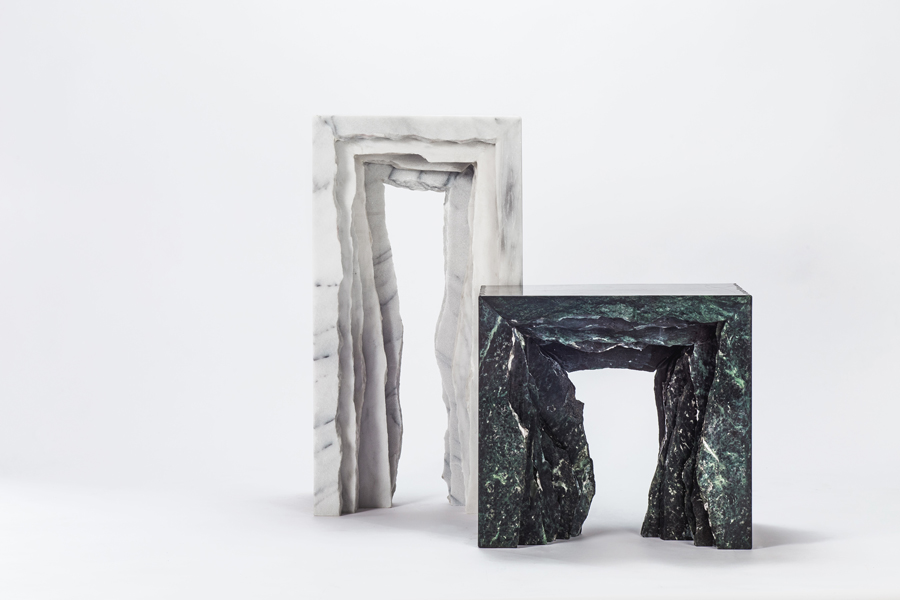
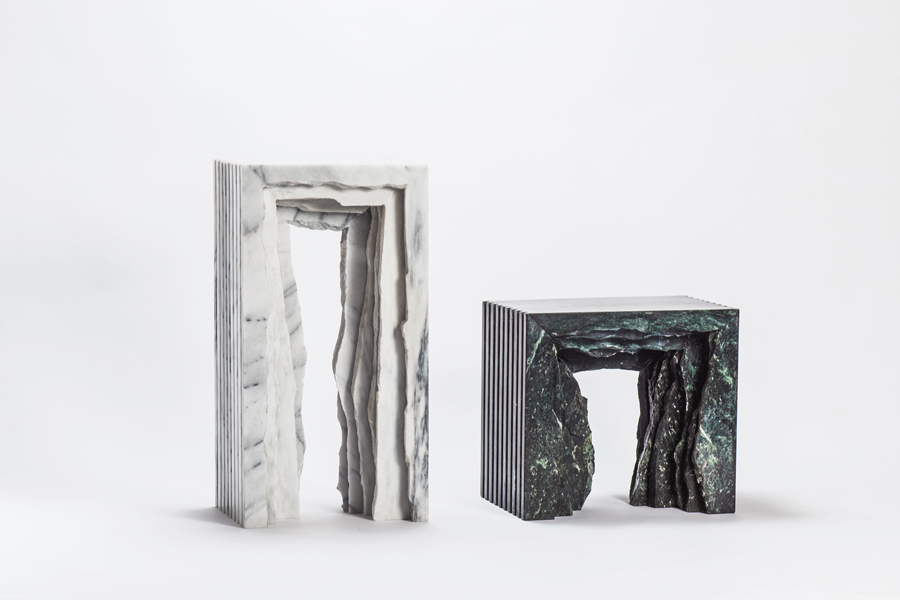
edit
edit

Changed region(s): [[0.1867, 0.18, 0.9022, 0.96]]

diff --git a/Split_Marble_Collection/index.html b/Split_Marble_Collection/index.html
@@ -68,14 +68,17 @@
              
              <div id="project-intro">
                  <h2>Split Marble Collection</h2>
-                 <p><i>Split Marble Collection</i> is inspired by the sawing process of the marble. Being cut artificially, the retaining raw rims of stone pieces greatly contrast with the smooth profile. Through juxtaposing, the common way to place marble slabs, the rough edges create the image of the a layered cavern beneath the table and the stool. The stiff outlines together with the irregular fractures present the aesthetic of dissonance.</p>
+                 <p><i>Split Marble Collection</i> is inspired by the sawing procedure in the marble processing factory. Being incised artificially, the retaining raw rims of stone pieces greatly contrast with the smooth profile. The design regards the roughness as the distinguishing feature and aims to keep it in the furniture design. The even cuts on the marble are used as external appearances while rough sides are placed inward, retaining their original marble surface.</p> 
+
+                 <p>By juxtaposing the marble pieces at gradually varying sizes, the result is a collection of a table and a stool with irregular edges beneath. The layered shape creates an image of a deep cavern. <i>Split Marble Collection</i> presents the aesthetic of dissonance through its stiff outlines together with the presence of fragments.</p>
                  <p>--
                  <br />
                  For <a href="http://www.lostudiodellapietra.com" target="_blank"> Lo Studio della Pietra </a> 
                  <br />
-                 Year: 2016 
-                 <br />
                  Photos: Jun-Yo Liu
+                 <br />
+                 Year: 2016 
+                 
                  
              </div>
              

diff --git a/Wood_Not_Wood/index.html b/Wood_Not_Wood/index.html
@@ -72,9 +72,10 @@
                  <br />
                  For the green ocean project by REnato Lab 
                  <br />
-                 Year: 2016 
-                 <br />
                  Photos: Tzu-Chiao Chiu
+                 <br />
+                 Year: 2016 
+                
                  
              </div>
              
